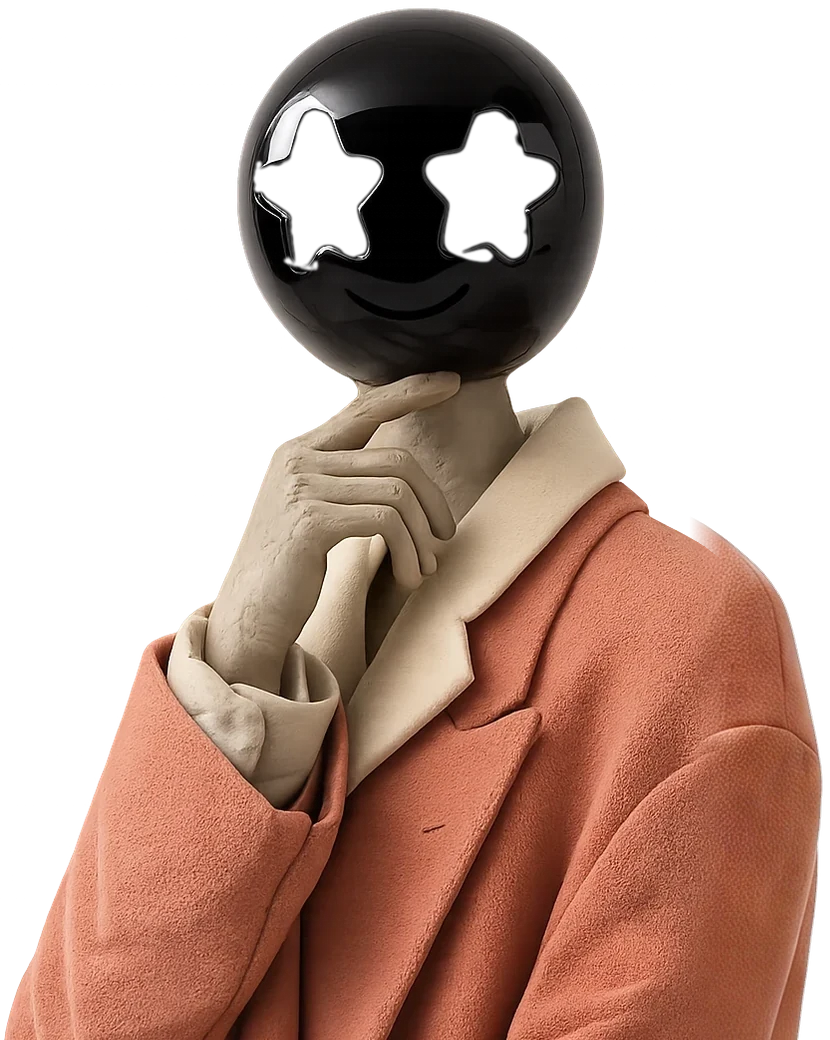
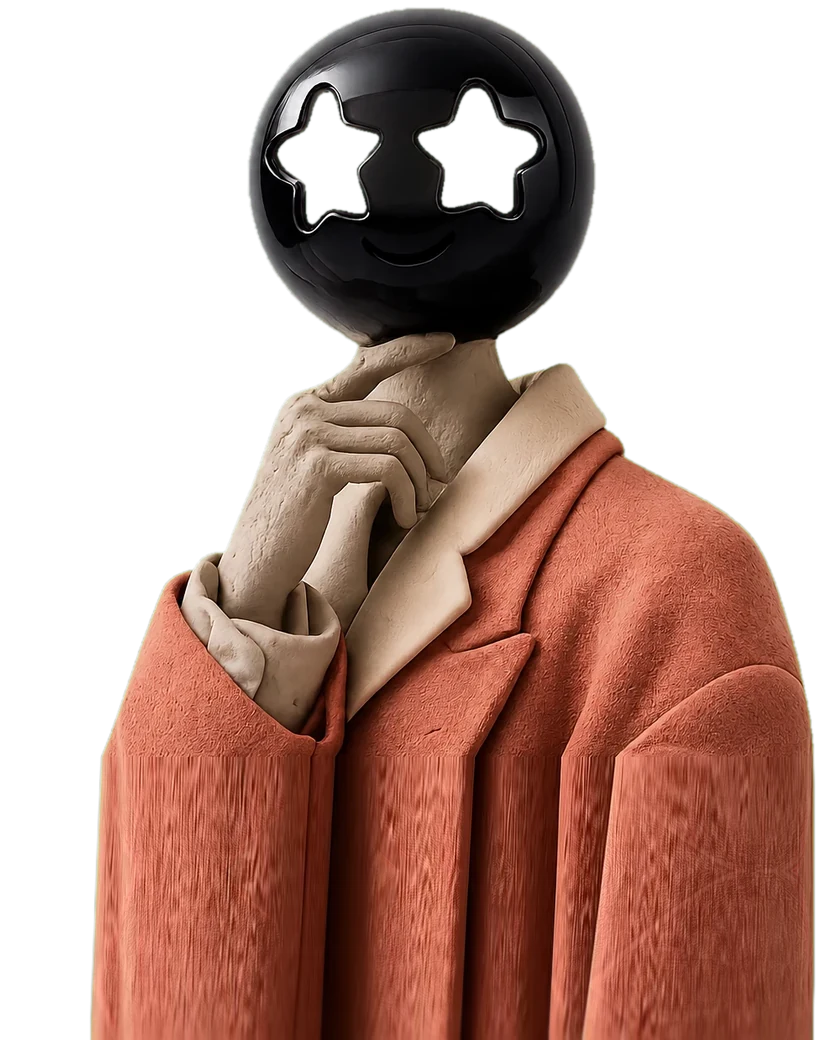
Hero: designer's chroma cutout figure, eyes marked from measured holes
Recovered the pasted webp (flattened to RGB over chroma green), keyed
component-aware with despill, composed at the exact ball invariant
(421.8, 181) r173 on the 830x1040 canvas — zero CSS changes. Coat
extended past the source's landscape crop by replace-tail stretch
(seamless join) + ping-pong fabric grain + depth falloff. Lens eyeCy
0.152 -> 0.151 from the measured star-hole centroid line.

diff --git a/src/components/HeroMarqueeLens.tsx b/src/components/HeroMarqueeLens.tsx
@@ -135,10 +135,11 @@ export default function HeroMarqueeLens() {
       const second = strip.children[setLen] as HTMLElement;
       const stripPeriod = second.offsetLeft - first.offsetLeft;
 
-      // The clay character's HEAD is the lens now: ball centre at
-      // (58.34%, 18%) of the 723×1040 upper-body canvas, star eyes riding
-      // slightly above centre at 15.2%. r = ball radius / width (173/723).
-      const HEAD = { cx: 0.5082, cy: 0.18, r: 0.2084, eyeCy: 0.152 };
+      // The clay character's HEAD is the lens: ball centre at (50.82%, 18%)
+      // of the 830×1040 upper-body canvas, r = ball radius / width (173/830).
+      // eyeCy = measured star-hole centroid line of the designer cutout
+      // (left (328,160), right (478,154) -> y 157 / 1040).
+      const HEAD = { cx: 0.5082, cy: 0.18, r: 0.2084, eyeCy: 0.151 };
 
       // Static band geometry — only changes on resize, never per frame.
       // The head sits ON the marquee line (original composition): the icon
